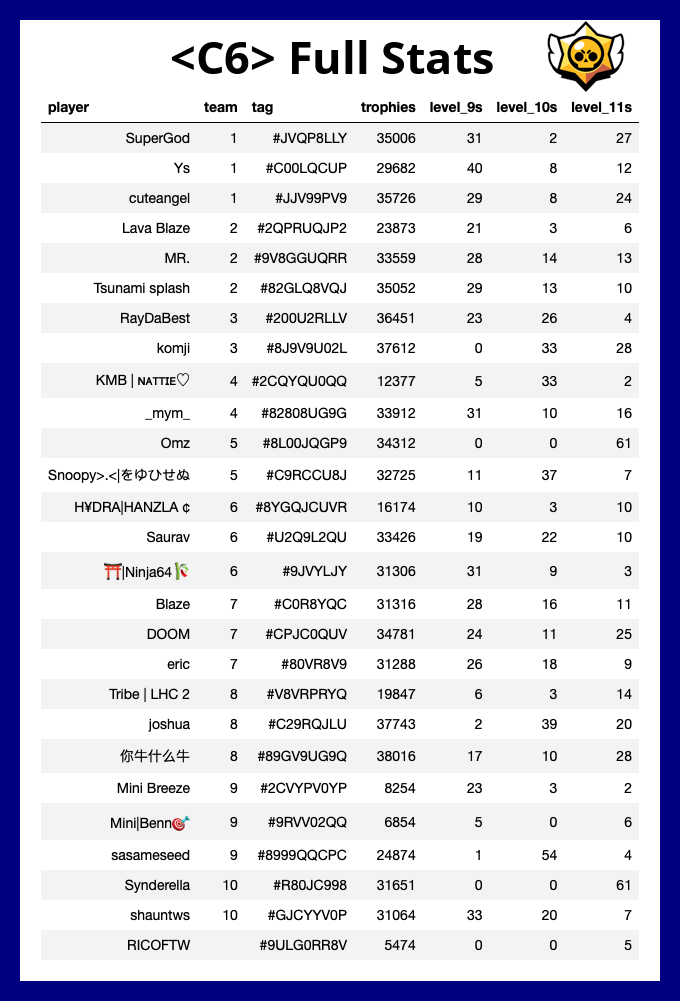
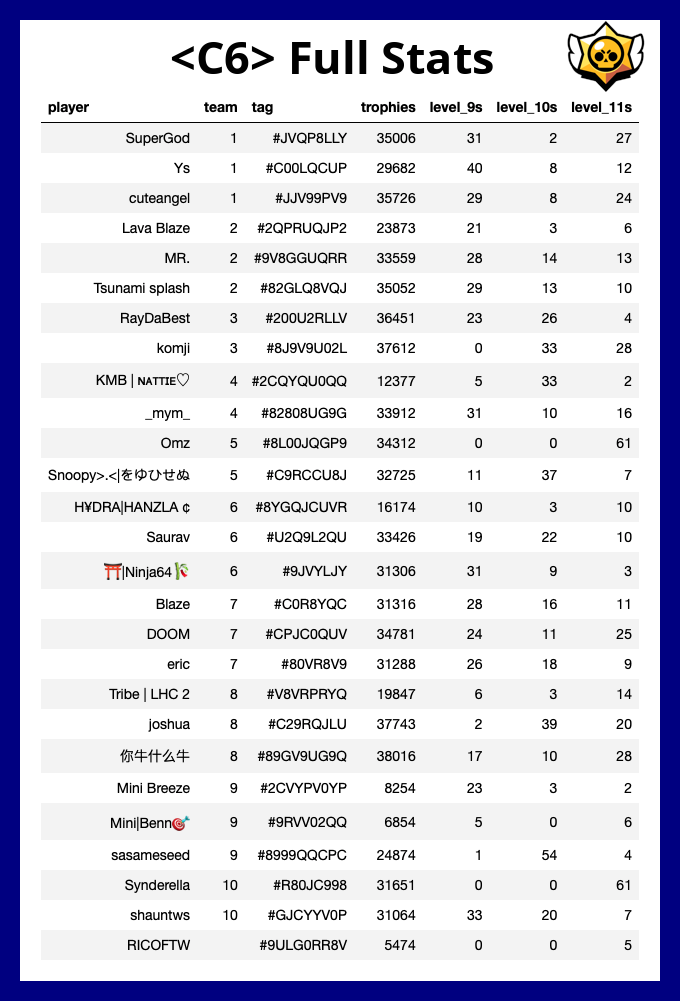
fix formatting

Changed region(s): [[0.8029, 0.0, 0.9574, 0.0929]]

diff --git a/aura.py b/aura.py
@@ -255,8 +255,8 @@ def add_image(img1_path, img2_path, coord, resize_factor):
 pad_add_text(c9_csv_output, [80, 20, 20, 20], 45, (170, 25), "<C9> Full Stats", c9_csv_output, 'maroon', 20)
 pad_add_text(c6_csv_output, [80, 20, 20, 20], 45, (170, 25), "<C6> Full Stats", c6_csv_output, 'navy', 20)
 
-add_image(c9_csv_output, './misc_images/masters.png', (535, 2), 8 )
-add_image(c6_csv_output, './misc_images/masters.png', (535, 2), 8 )
+add_image(c9_csv_output, './misc_images/masters.png', (530, 2), 8 )
+add_image(c6_csv_output, './misc_images/masters.png', (555, 2), 8 )
 
 # Comparison
 pad_add_text(comparison_c9_png, [93, 20, 20, 20], 40, (265, 25), "<C9> & <C6> Comparison Stats", comparison_c9_png, 'maroon', 15)
@@ -278,4 +278,4 @@ pad_add_text(c9_team_averages_png, [60, 20, 20, 20], 22, (200, 12), "<C9> Team A
 pad_add_text(c6_team_averages_png, [60, 20, 20, 20], 22, (200, 12), "<C6> Team Averages", c6_team_averages_png, 'navy', 8)
 
 add_image(c9_team_averages_png, './misc_images/rank.png', (560,15),4)
-add_image(c6_team_averages_png, './misc_images/rank.png', (560,15),4)
+add_image(c6_team_averages_png, './misc_images/rank.png', (540,15),4)
